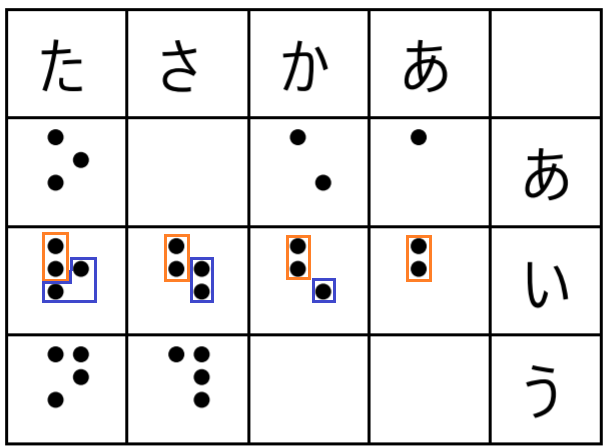
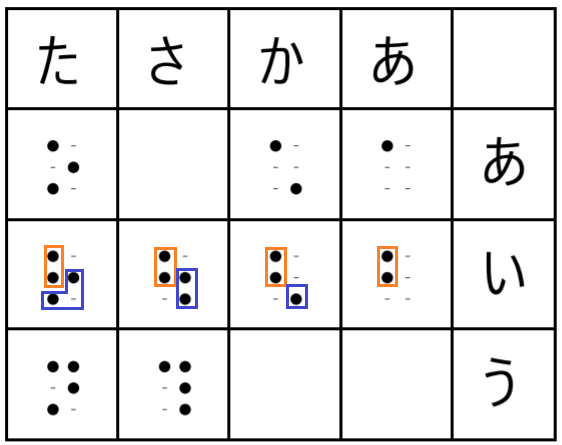
add images; fix

diff --git a/content/orientation2021.md b/content/orientation2021.md
@@ -260,7 +260,7 @@ alijenga
 - 時制が英語や日本語とは違って動詞の前側に現れる言語があること    
 
 
-などを知っていると，分析が楽になったり，発見した答えに自信を持てます．
+などを知っていると，分析が楽になったり，発見した答えに自信を持てるようになります．
 
 
 #### 対策方法
@@ -299,7 +299,7 @@ alijenga
 3. 彼が私たちを運ぶ   
 ……    
 
-のような訳文があったとき，
+のような訳文があれば，
 - 主語の人称（話し手/聞き手/それ以外）・数（単数/複数）
 - 目的語の人称・数
 - 時制
@@ -360,8 +360,8 @@ Q. 「うきくさ」を点字で書いてください．
 しかし，設問ではここに登場しない「う」「く」「さ」を書くことを求められています．この問題が問題として成立するためにはなにかの規則によって点字の形が決まっていると仮定しなければなりません．    
 ここで，表を作ってみましょう．    
 <img style="max-width: 250px; width: 100%" src="/img/orientation2021/Braille_table.png">    
-データがそろっているイ段に注目します．イ段の文字は全て左上と左中が埋まっていており，この部分が母音 i を表していると考えられます．   
-逆に，「き」「し」「ち」からここを除いた部分，つまり左下，右中，右下が行の違いを表していると分かります．    
+データがそろっているイ段に注目します．イ段の文字は全て左上と左中が埋まっていており，この部分が母音 i を表していると考えられます．（オレンジ色の部分）   
+逆に，「き」「し」「ち」からここを除いた部分，つまり左下，右中，右下が行の違いを表していると分かります．（青色の部分）    
 <img style="max-width: 250px; width: 100%" src="/img/orientation2021/Braille_table2.png">     
 他の文字についても同じように分析します．    
 <img style="max-width: 250px; width: 100%" src="/img/orientation2021/Braille_table3.png">  
@@ -392,10 +392,11 @@ Q. 「うきくさ」を点字で書いてください．
 | ni- 私は | na- ～している | pika 料理する |
 | a-  彼は | li- ～した     | jenga 建てる  |
 {{< /table>}}
-のように書いておけば、  
-- tulisafari    
+のように書いておけば，  
 
-のようなものが出てきたときに、tuは主語を、safariは動詞を表す部分だと判断することができるようになります。    
+tulisafari    
+
+のようなものが出てきたときに，tuは主語を，safariは動詞を表す部分だと判断することができるようになります．    
 
 <!--
 これだけだと分かりづらいので例題を使ってもうちょっと説明したい．できれば一個ずつに例題をつけたいけどさすがに多そう．でも全部を使える問題なんてなくて，困る
